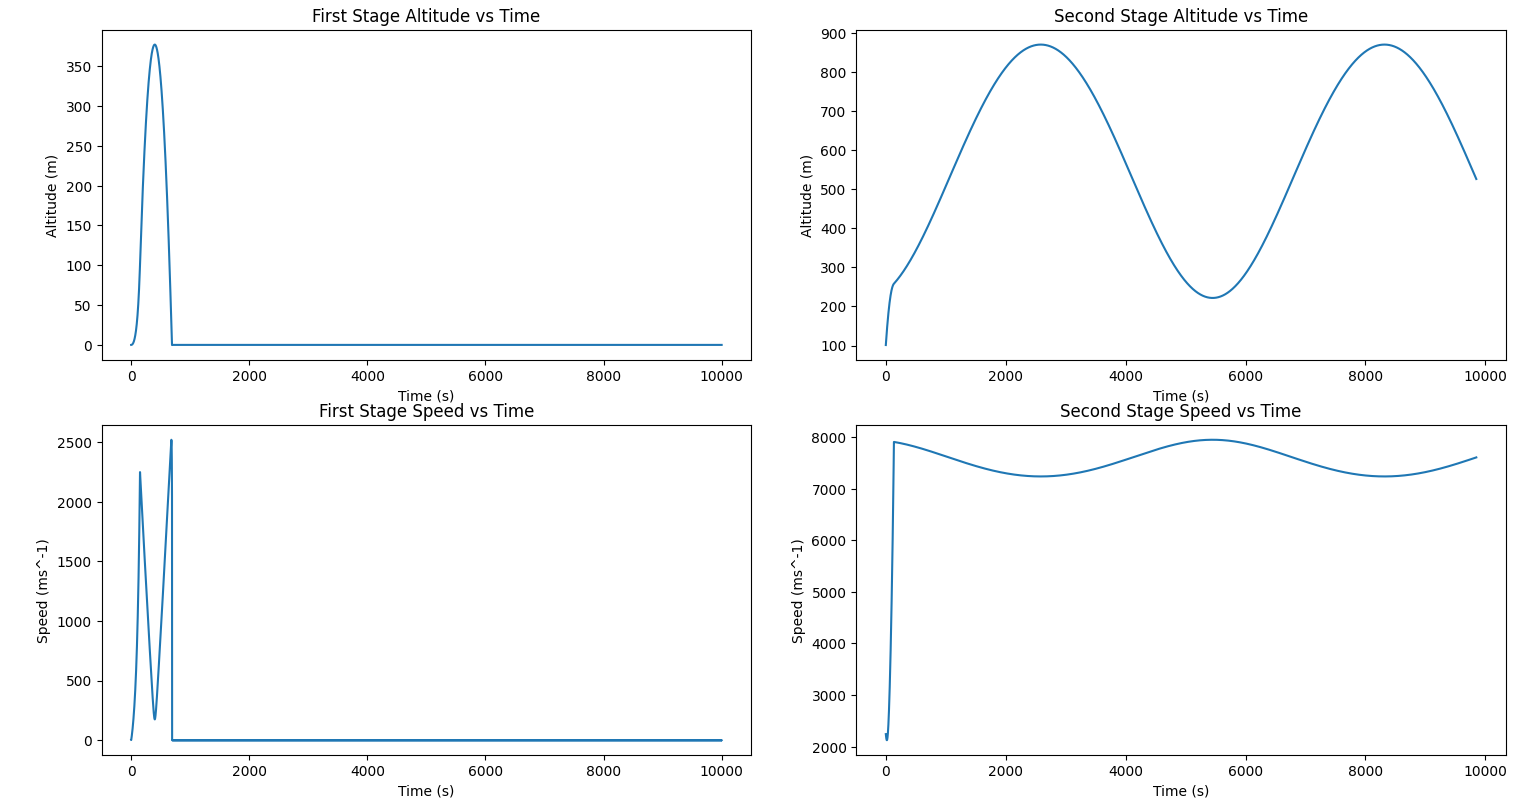
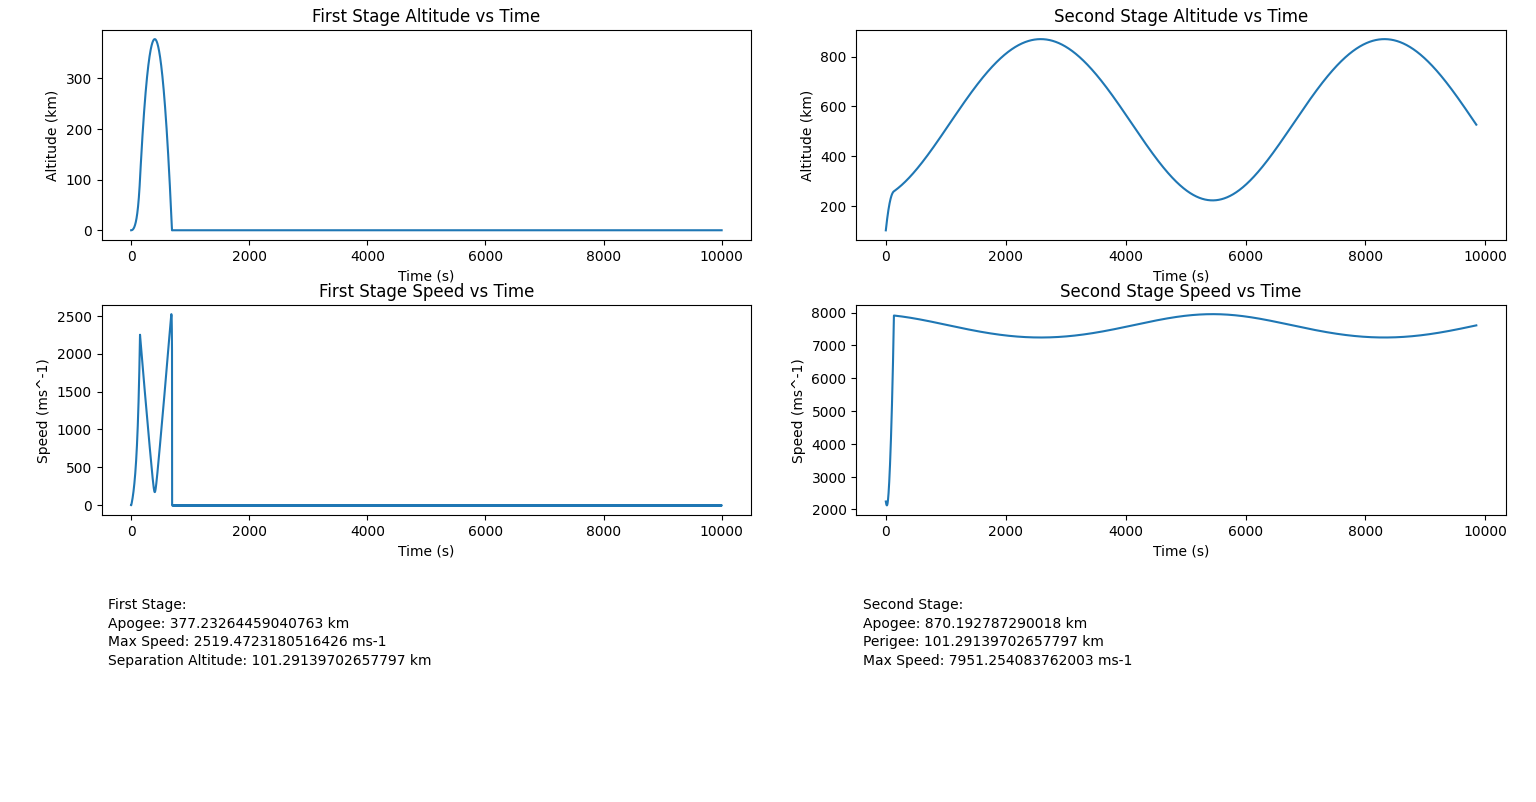
added more telemetry and fixed bugs

diff --git a/result.py b/result.py
@@ -7,7 +7,7 @@ from matplotlib.patches import Circle
 
 #setting values for our rockets and environment
 first_stage = Rocket(
-    mass_empty = 1300+250+1250,
+    mass_empty = 1300+250+470,
     fuel_mass = 9700,
     thrust = 162000,
     burn_rate = 9700 / 150,    
@@ -50,6 +50,8 @@ second_stage_speeds = []
 
 time_elapsed = 0
 
+separation_altitude = 0
+
 #main loop for simulation
 while True:
 
@@ -80,10 +82,10 @@ while True:
     #second stage operation
     if first_stage.fuel_mass < 1:
         if len(second_stage_positions) == 0:
-            print(np.linalg.norm(first_stage.position) - environment.planet_radius)
+            separation_altitude = ((np.linalg.norm((first_stage.position)) - environment.planet_radius) / 1000)
             second_stage.position = first_stage.position.copy()
             second_stage.velocity = first_stage.velocity.copy()
-            second_stage.set_angle(angle=np.radians(190))
+            second_stage.set_angle(angle=np.radians(195))
 
         
         altitude2 = np.linalg.norm(second_stage.position) - environment.planet_radius
@@ -113,7 +115,8 @@ second_stage_positions = np.array(second_stage_positions)
 x2 = second_stage_positions[:, 0]
 y2 = second_stage_positions[:, 1]
 
-###main plot of trajectory
+
+###trajectory plot
 plt.figure(figsize=(10, 10))
 ax = plt.gca()
 earth = Circle((0, 0), environment.planet_radius, color='cyan', zorder=0)
@@ -129,23 +132,24 @@ ax.autoscale_view()
 plt.title("Trajectory")
 plt.legend()
 
-###plot for individual properties
+
+###telemetry plot
 time1 = [i * dt for i in range(len(first_stage_altitudes))]
 time2 = [i * dt for i in range(len(second_stage_altitudes))]
 time3 = [i * dt for i in range(len(first_stage_speeds))]
 time4 = [i * dt for i in range(len(second_stage_speeds))]
 
-fig, axs = plt.subplots(2, 2, figsize=(12, 10))  # 3 rows, 1 column
+fig, axs = plt.subplots(3, 2, figsize=(12, 10))
 
 axs[0,0].plot(time1, first_stage_altitudes)
 axs[0,0].set_title("First Stage Altitude vs Time")
 axs[0,0].set_xlabel("Time (s)")
-axs[0,0].set_ylabel("Altitude (m)")
+axs[0,0].set_ylabel("Altitude (km)")
 
 axs[0,1].plot(time2, second_stage_altitudes)
 axs[0,1].set_title("Second Stage Altitude vs Time")
 axs[0,1].set_xlabel("Time (s)")
-axs[0,1].set_ylabel("Altitude (m)")
+axs[0,1].set_ylabel("Altitude (km)")
 
 axs[1,0].plot(time3, first_stage_speeds)
 axs[1,0].set_title("First Stage Speed vs Time")
@@ -156,6 +160,25 @@ axs[1,1].plot(time4, second_stage_speeds)
 axs[1,1].set_title("Second Stage Speed vs Time")
 axs[1,1].set_xlabel("Time (s)")
 axs[1,1].set_ylabel("Speed (ms^-1)")
+
+axs[2, 0].axis('off')
+axs[2, 1].axis('off')
+
+telemetry1 =  f"""
+First Stage:
+Apogee: {max(first_stage_altitudes)} km
+Max Speed: {max(first_stage_speeds)} ms-1
+Separation Altitude: {separation_altitude} km"""
+
+telemetry2 = f"""
+Second Stage:
+Apogee: {max(second_stage_altitudes)} km
+Perigee: {min(second_stage_altitudes)} km
+Max Speed: {max(second_stage_speeds)} ms-1
+Average Speed: {(sum(second_stage_speeds) / len(second_stage_speeds))} ms-1"""
+
+axs[2, 0].text(0.01, 1.0, telemetry1, fontsize=10, va='top', ha='left', linespacing=1.4, wrap=True)
+axs[2, 1].text(0.01, 1.0, telemetry2, fontsize=10, va='top', ha='left', linespacing=1.4, wrap=True)
 
 plt.tight_layout()
 plt.show()
